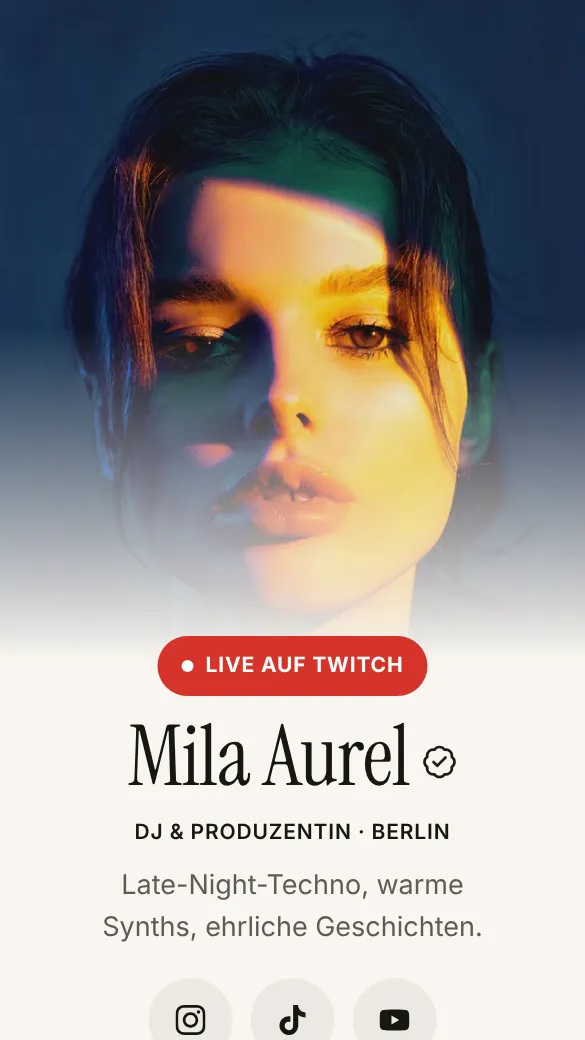
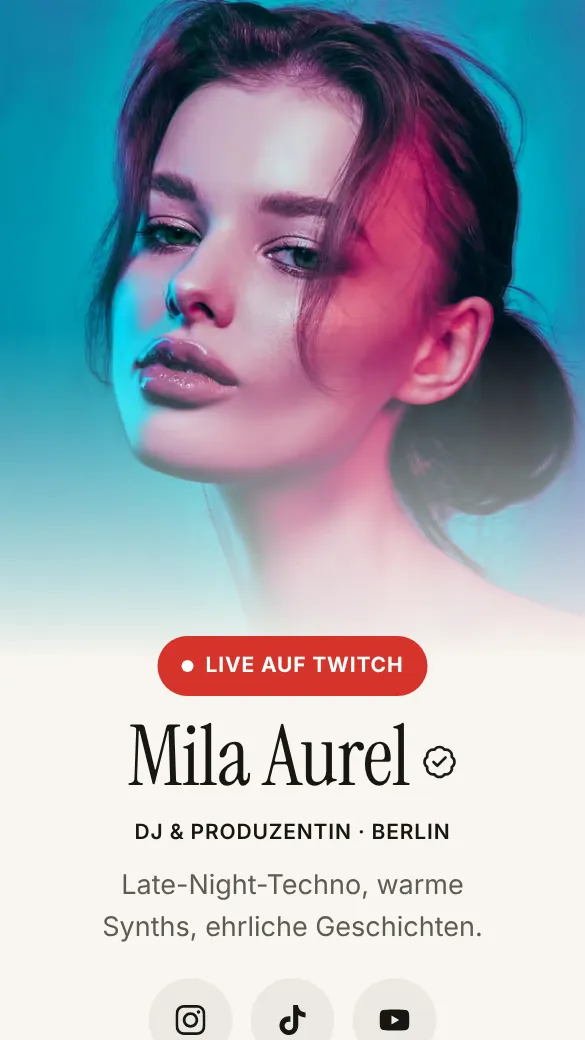
fix(web): cut every Mila photo from one frame and recapture each preview that shows her
The review found that Mila's hero, avatar and short-3 used the same Unsplash frame (kQxE3QzIlmw)
as the example persona Juno Kade, another fictional DJ, so a visitor saw one face under two
names. Her story card came from a second frame with other lighting, so on her own page she looked
like two women. Five portfolio previews still showed the old red-headphones photo the founder
called ugly.

- mila-hero, mila-avatar and short-3 are now cut from 3U7tctomfx4, the frame mila-wide already
  uses, in place with the same names and sizes. No upscaling and no colour change. The hero puts
  her mouth at about half height, so Studio's live badge and name sit on her chin and neck, not
  on her lips, and the light templates fade out below her chin.
- The story card's square thumbnail centres on her face (focal 0.25, 0.5). Nour's card sets its
  own image, so it does not inherit that focal point.
- CREDITS.md cites 3U7tctomfx4 for all four Mila files.
- The ten link-in-bio previews and the five portfolio previews with a face (folio, werkbogen,
  tiefdruck, laufbahn, logbuch) are recaptured. grundriss and leuchttisch show no face and stay
  byte-equal.

Claude-Session: https://claude.ai/code/session_01LCF9gwiCbq2xN4kMBWjZZw

diff --git a/apps/web/src/features/directions/shared/sample.ts b/apps/web/src/features/directions/shared/sample.ts
@@ -122,7 +122,7 @@ const milaBlocks = (t: (key: string) => string): Block[] => [
     title: t("storyTitle"),
     description: t("storyBody"),
     url: "https://milaaurel.com/nachtstrom",
-    image: { src: "sample:mila-wide", alt: "" },
+    image: { src: "sample:mila-wide", alt: "", focal: [0.25, 0.5] },
   },
   {
     id: "newsletter",
@@ -152,7 +152,7 @@ const nourBlocks = (t: (key: string) => string): Block[] => {
     if (block.type === "socials") return { ...block, items: block.items.map((item) => ({ ...item, url: item.url.replace("milaaurel", "nourhaddad") })) };
     if (block.type === "live") return { ...block, channel: "nourhaddad", url: "https://twitch.tv/nourhaddad" };
     if (block.type === "shorts") return { ...block, items: block.items.map((item) => (item.poster.src === "sample:short-3" ? { ...item, poster: { ...item.poster, src: "sample:short-4" } } : item)) };
-    if (block.type === "card") return { ...block, url: block.url.replace("milaaurel", "nourhaddad"), image: { ...block.image, src: "sample:nour-wide" } };
+    if (block.type === "card") return { ...block, url: block.url.replace("milaaurel", "nourhaddad"), image: { src: "sample:nour-wide", alt: block.image.alt } };
     if (block.type === "link" || block.type === "product") return { ...block, url: block.url.replace("milaaurel", "nourhaddad") };
     return block;
   });

diff --git a/apps/web/src/assets/samples/CREDITS.md b/apps/web/src/assets/samples/CREDITS.md
@@ -5,8 +5,7 @@ and must be replaced with real creator content (with permission) before any publ
 
 | File | Source | License |
 |---|---|---|
-| mila-avatar.jpg, mila-hero.jpg, short-3.jpg | Photo by Igor Rand on Unsplash (photo-1653443658457, kQxE3QzIlmw) | Unsplash License |
-| mila-wide.jpg | Photo by Igor Rand on Unsplash (photo-1653443667522, 3U7tctomfx4) | Unsplash License |
+| mila-avatar.jpg, mila-hero.jpg, mila-wide.jpg, short-3.jpg | Photo by Igor Rand on Unsplash (photo-1653443667522, 3U7tctomfx4) | Unsplash License |
 | gear-headphones.jpg | Photo by Jason Leung on Unsplash (photo-1599669454699, xR4JHzr69Og) | Unsplash License |
 | event-berlin.jpg, short-1.jpg | Photo by Marcel Strauß on Unsplash (`photo-1758550445758`) | Unsplash License |
 | event-hamburg.jpg, short-2.jpg, video-live.jpg | Photo by Adrià Sánchez Roqué on Unsplash (`photo-1666289186874`) | Unsplash License |
